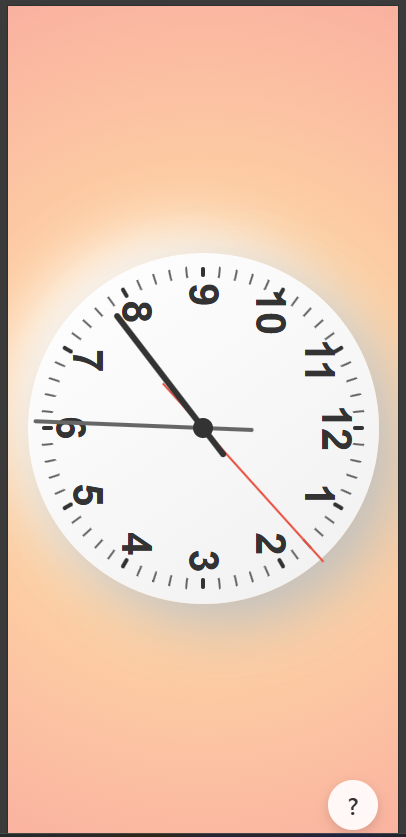
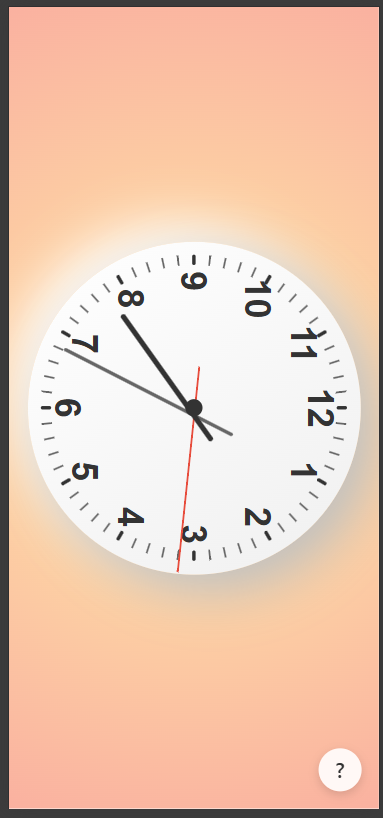
レスポンシブ対応を強化・確実に適用されるよう修正
- !importantを追加してCSSの詳細度問題を解決
- JavaScriptでcssTextを使用して強制的にスタイル適用
- 480px以下のさらに小さい画面サイズに対応
- 画面サイズに応じた針の長さとサイズを動的に変更
- より確実なレスポンシブ動作を実現

Changed region(s): [[0.0574, 0.2751, 0.9478, 0.7335], [0.0, 0.0, 1.0, 1.0]]

diff --git a/index.html b/index.html
@@ -47,64 +47,91 @@
         
         @media (max-width: 768px) {
             .clock-container {
-                width: 90vw;
-                height: 90vw;
+                width: 90vw !important;
+                height: 90vw !important;
             }
             
             .hour-hand {
-                width: 4px;
-                height: 120px;
-                transform-origin: 50% 75%;
-                transform: translate(-50%, -75%);
+                width: 4px !important;
+                height: 120px !important;
+                transform-origin: 50% 75% !important;
             }
             
             .minute-hand {
-                width: 3px;
-                height: 150px;
-                transform-origin: 50% 73%;
-                transform: translate(-50%, -73%);
+                width: 3px !important;
+                height: 150px !important;
+                transform-origin: 50% 73% !important;
             }
             
             .second-hand {
-                width: 1px;
-                height: 160px;
-                transform-origin: 50% 70%;
-                transform: translate(-50%, -70%);
+                width: 1px !important;
+                height: 160px !important;
+                transform-origin: 50% 70% !important;
             }
             
             .clock-center {
-                width: 15px;
-                height: 15px;
+                width: 15px !important;
+                height: 15px !important;
             }
             
             .number {
-                font-size: 24px;
+                font-size: 24px !important;
             }
             
             .hour-number {
-                font-size: 30px;
+                font-size: 30px !important;
             }
             
             .help-button {
-                width: 40px;
-                height: 40px;
-                font-size: 20px;
-                bottom: 15px;
-                right: 15px;
+                width: 40px !important;
+                height: 40px !important;
+                font-size: 20px !important;
+                bottom: 15px !important;
+                right: 15px !important;
             }
             
             .modal-content {
-                padding: 20px;
-                margin: 15px;
-                max-width: 350px;
+                padding: 20px !important;
+                margin: 15px !important;
+                max-width: 350px !important;
             }
             
             .modal h2 {
-                font-size: 20px;
+                font-size: 20px !important;
             }
             
             .modal p {
-                font-size: 14px;
+                font-size: 14px !important;
+            }
+        }
+        
+        @media (max-width: 480px) {
+            .clock-container {
+                width: 95vw !important;
+                height: 95vw !important;
+            }
+            
+            .hour-hand {
+                width: 3px !important;
+                height: 100px !important;
+            }
+            
+            .minute-hand {
+                width: 2px !important;
+                height: 130px !important;
+            }
+            
+            .second-hand {
+                width: 1px !important;
+                height: 140px !important;
+            }
+            
+            .hour-number {
+                font-size: 26px !important;
+            }
+            
+            .number {
+                font-size: 20px !important;
             }
         }
         
@@ -423,21 +450,90 @@
             
             // スマホサイズかどうかを判定
             const isMobile = window.innerWidth <= 768;
+            const isSmallMobile = window.innerWidth <= 480;
             
-            if (isMobile) {
-                document.getElementById('hourHand').style.transform = 
-                    `translate(-50%, -75%) rotate(${hourAngle}deg)`;
-                document.getElementById('minuteHand').style.transform = 
-                    `translate(-50%, -73%) rotate(${minuteAngle}deg)`;
-                document.getElementById('secondHand').style.transform = 
-                    `translate(-50%, -70%) rotate(${secondAngle}deg)`;
+            const hourHand = document.getElementById('hourHand');
+            const minuteHand = document.getElementById('minuteHand');
+            const secondHand = document.getElementById('secondHand');
+            
+            if (isSmallMobile) {
+                hourHand.style.cssText = `
+                    position: absolute;
+                    width: 3px;
+                    height: 100px;
+                    background: #333;
+                    border-radius: 3px;
+                    top: 50%;
+                    left: 50%;
+                    transform-origin: 50% 75%;
+                    transform: translate(-50%, -75%) rotate(${hourAngle}deg);
+                    z-index: 3;
+                `;
+                minuteHand.style.cssText = `
+                    position: absolute;
+                    width: 2px;
+                    height: 130px;
+                    background: #666;
+                    border-radius: 2px;
+                    top: 50%;
+                    left: 50%;
+                    transform-origin: 50% 73%;
+                    transform: translate(-50%, -73%) rotate(${minuteAngle}deg);
+                    z-index: 2;
+                `;
+                secondHand.style.cssText = `
+                    position: absolute;
+                    width: 1px;
+                    height: 140px;
+                    background: #e74c3c;
+                    border-radius: 1px;
+                    top: 50%;
+                    left: 50%;
+                    transform-origin: 50% 70%;
+                    transform: translate(-50%, -70%) rotate(${secondAngle}deg);
+                    z-index: 1;
+                `;
+            } else if (isMobile) {
+                hourHand.style.cssText = `
+                    position: absolute;
+                    width: 4px;
+                    height: 120px;
+                    background: #333;
+                    border-radius: 3px;
+                    top: 50%;
+                    left: 50%;
+                    transform-origin: 50% 75%;
+                    transform: translate(-50%, -75%) rotate(${hourAngle}deg);
+                    z-index: 3;
+                `;
+                minuteHand.style.cssText = `
+                    position: absolute;
+                    width: 3px;
+                    height: 150px;
+                    background: #666;
+                    border-radius: 2px;
+                    top: 50%;
+                    left: 50%;
+                    transform-origin: 50% 73%;
+                    transform: translate(-50%, -73%) rotate(${minuteAngle}deg);
+                    z-index: 2;
+                `;
+                secondHand.style.cssText = `
+                    position: absolute;
+                    width: 1px;
+                    height: 160px;
+                    background: #e74c3c;
+                    border-radius: 1px;
+                    top: 50%;
+                    left: 50%;
+                    transform-origin: 50% 70%;
+                    transform: translate(-50%, -70%) rotate(${secondAngle}deg);
+                    z-index: 1;
+                `;
             } else {
-                document.getElementById('hourHand').style.transform = 
-                    `translate(-50%, -80%) rotate(${hourAngle}deg)`;
-                document.getElementById('minuteHand').style.transform = 
-                    `translate(-50%, -77%) rotate(${minuteAngle}deg)`;
-                document.getElementById('secondHand').style.transform = 
-                    `translate(-50%, -75%) rotate(${secondAngle}deg)`;
+                hourHand.style.transform = `translate(-50%, -80%) rotate(${hourAngle}deg)`;
+                minuteHand.style.transform = `translate(-50%, -77%) rotate(${minuteAngle}deg)`;
+                secondHand.style.transform = `translate(-50%, -75%) rotate(${secondAngle}deg)`;
             }
         }
         
